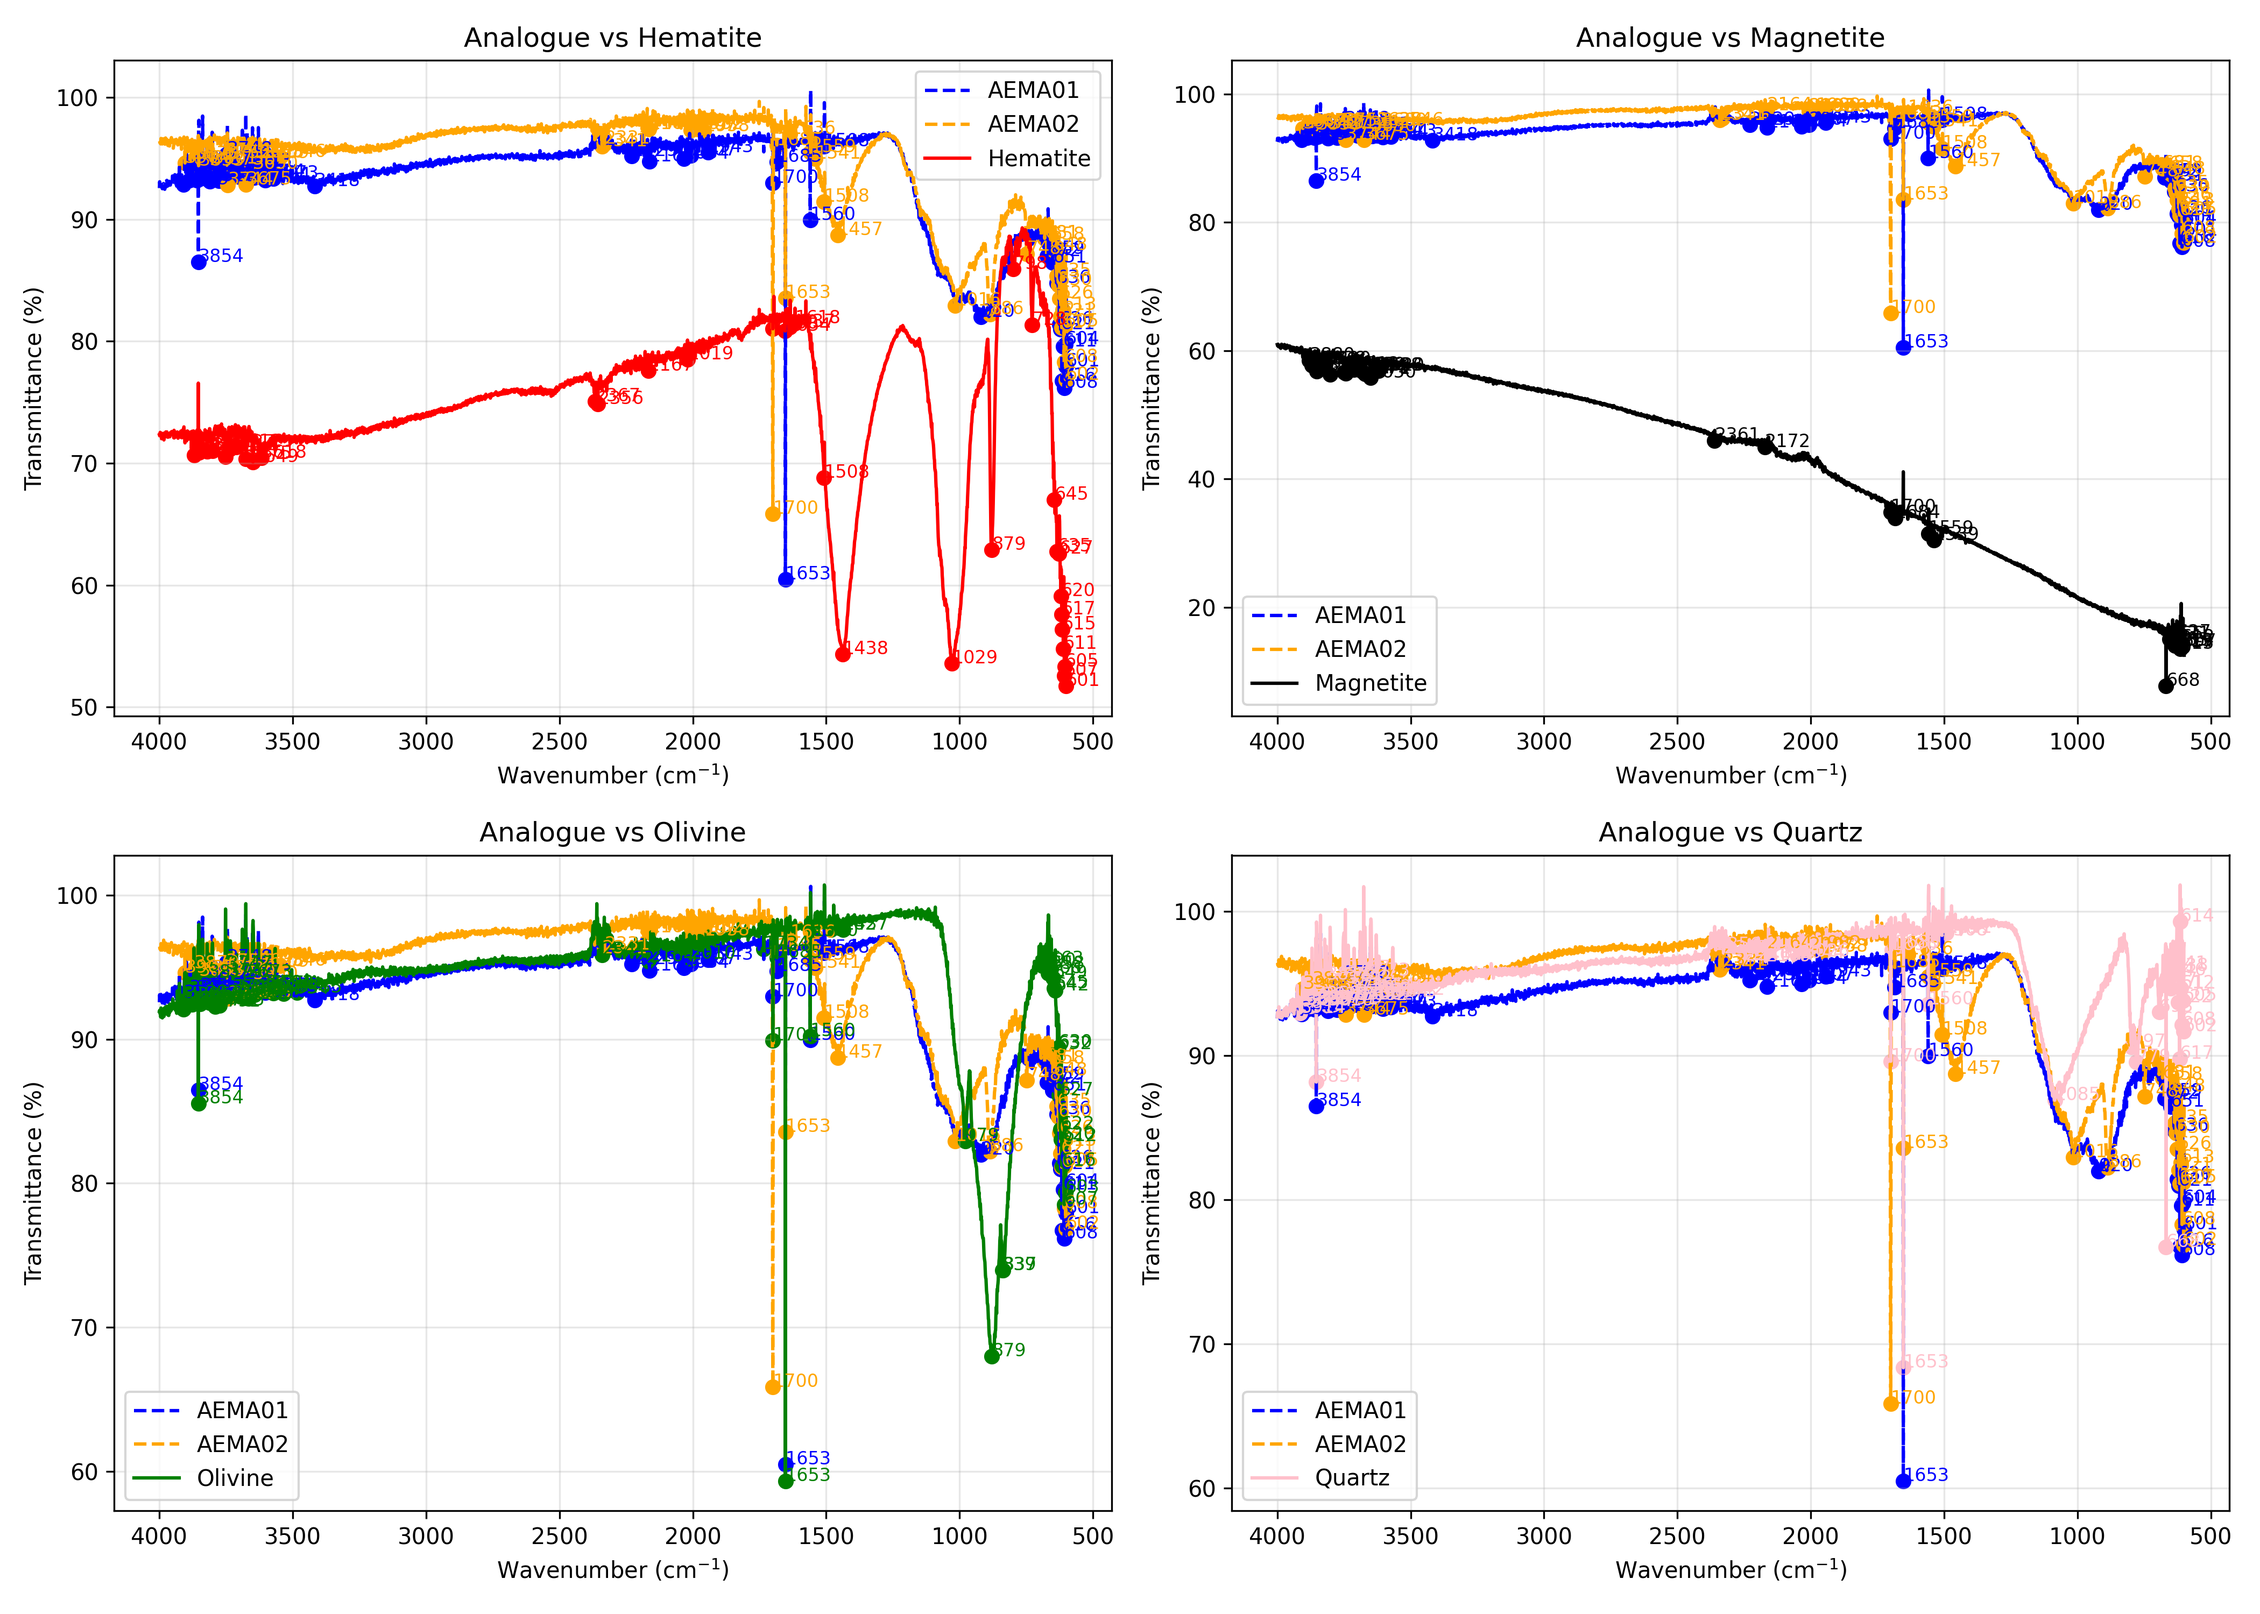
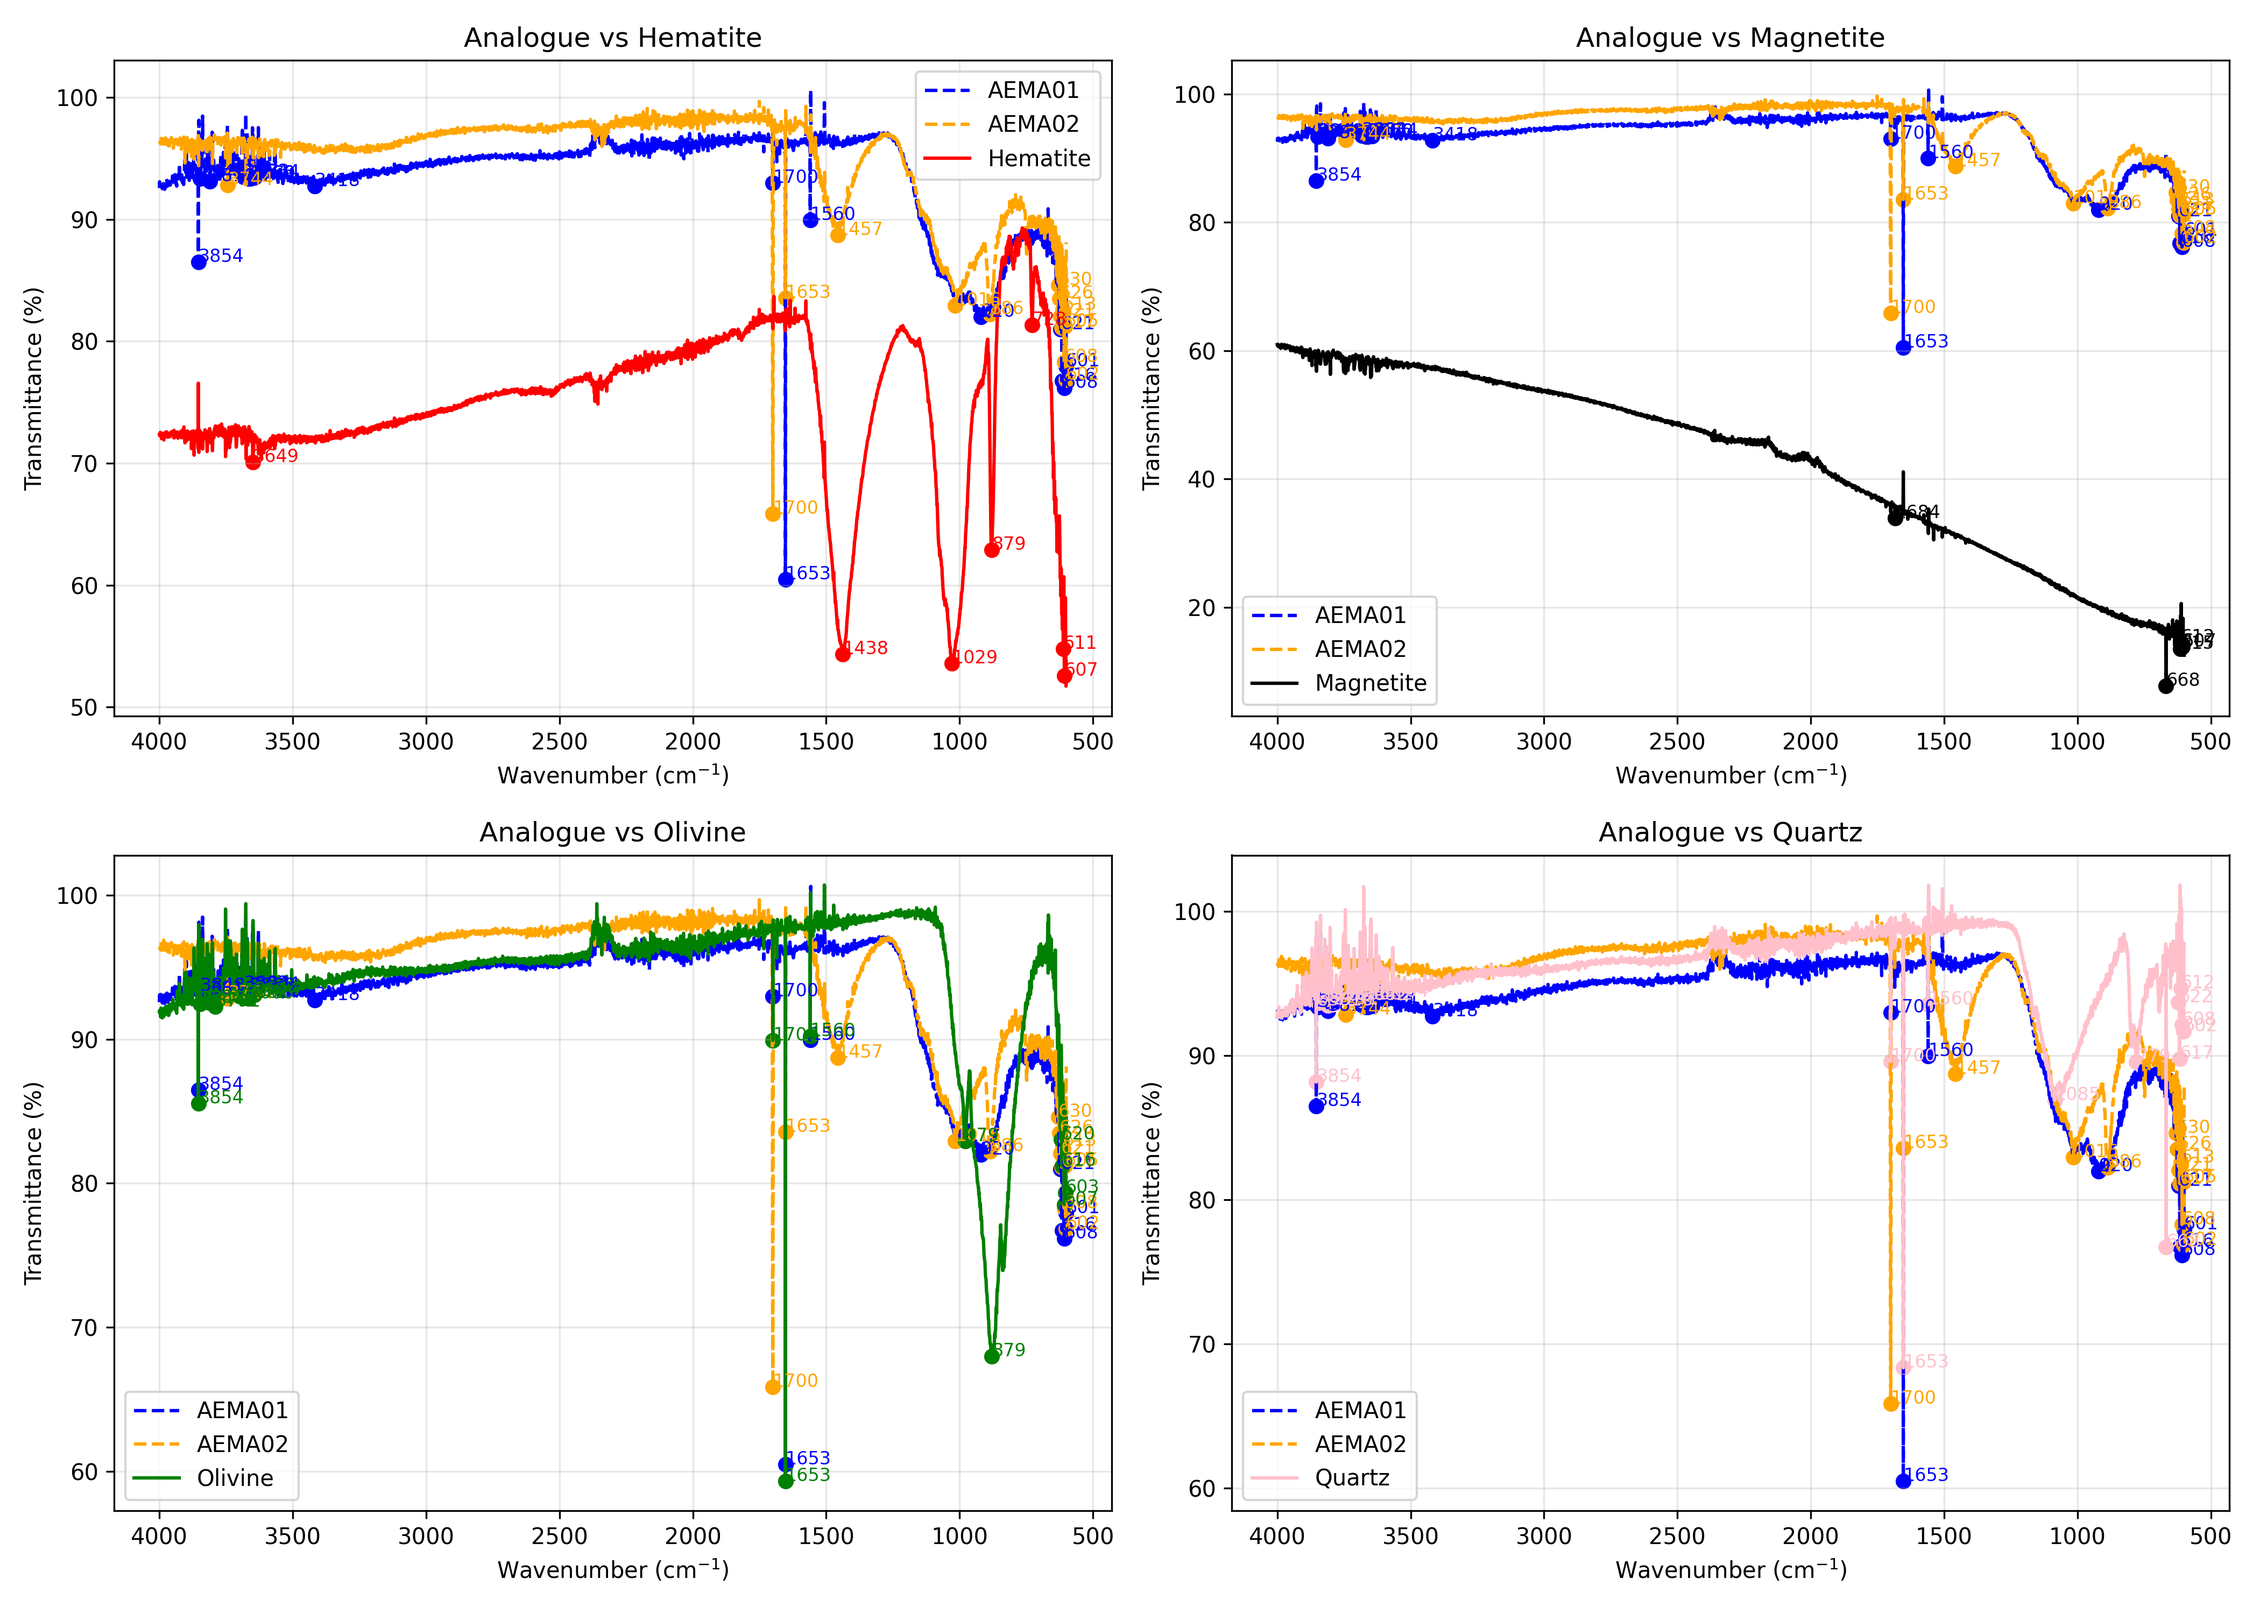
New plots for FTIR

diff --git a/IFTR_Interpreter.py b/IFTR_Interpreter.py
@@ -25,7 +25,7 @@ def load_spectrum(filename):
 # -----------------------------
 # Peak detection (absorption bands)
 # -----------------------------
-def detect_peaks(wavenumber, transmittance, prominence=1.5):
+def detect_peaks(wavenumber, transmittance, prominence=4):
     inverted = -transmittance
     peaks, properties = find_peaks(inverted, prominence=prominence)
     return wavenumber[peaks], transmittance[peaks]
@@ -65,7 +65,7 @@ analogue_peaks_2 = detect_peaks(*AEMA02)
 
 
 # =============================
-# SUBPLOTS WITH PEAK LABELS
+# SUBPLOTS WITH PEAK LABELS FOR ONLY ANALOGUE 1
 # =============================
 fig, axes = plt.subplots(2, 2, figsize=(14, 10))
 axes = axes.flatten()
@@ -77,16 +77,14 @@ for ax, (ref_name, ref_info) in zip(axes, references.items()):
 
     ref_peaks = detect_peaks(wn_ref, tr_ref)
 
-    # Plot analogue samples
-    ax.plot(*AEMA01, linestyle="--", color="blue", label="AEMA01")
-    ax.plot(*AEMA02, linestyle="--", color="orange", label="AEMA02")
+    # Plot analogue sample
+    ax.plot(*AEMA01, linestyle="--", color="blue", label="Mars Global Analogue")
 
     # Plot reference sample
     ax.plot(wn_ref, tr_ref, linestyle="-", color=ref_color, label=ref_name)
 
     # Mark analogue peaks
     ax.scatter(*analogue_peaks_1, color="blue")
-    ax.scatter(*analogue_peaks_2, color="orange")
 
     # Mark reference peaks
     ax.scatter(*ref_peaks, color=ref_color)
@@ -95,14 +93,11 @@ for ax, (ref_name, ref_info) in zip(axes, references.items()):
     for wn, tr in zip(*analogue_peaks_1):
         ax.text(wn, tr, f"{wn:.0f}", fontsize=8, color="blue")
 
-    for wn, tr in zip(*analogue_peaks_2):
-        ax.text(wn, tr, f"{wn:.0f}", fontsize=8, color="orange")
-
     for wn, tr in zip(*ref_peaks):
         ax.text(wn, tr, f"{wn:.0f}", fontsize=8, color=ref_color)
 
     # Formatting
-    ax.set_title(f"Analogue vs {ref_name}")
+    ax.set_title(f"Mars Analogue vs {ref_name}")
     ax.set_xlabel("Wavenumber (cm$^{-1}$)")
     ax.set_ylabel("Transmittance (%)")
     ax.invert_xaxis()
@@ -110,7 +105,52 @@ for ax, (ref_name, ref_info) in zip(axes, references.items()):
     ax.grid(alpha=0.3)
 
 plt.tight_layout()
-plt.savefig("FTIRPlots/FTIR_per_sample_peaks_comparison.png", dpi=300)
+plt.savefig("FTIRPlots/FTIR_MARS_per_sample_peaks_comparison.png", dpi=300)
+plt.show()
+plt.close()
+
+# =============================
+# SUBPLOTS WITH PEAK LABELS FOR ONLY ANALOGUE 1
+# =============================
+fig, axes = plt.subplots(2, 2, figsize=(14, 10))
+axes = axes.flatten()
+
+for ax, (ref_name, ref_info) in zip(axes, references.items()):
+
+    wn_ref, tr_ref = ref_info["data"]
+    ref_color = ref_info["color"]
+
+    ref_peaks = detect_peaks(wn_ref, tr_ref)
+
+    # Plot analogue sample
+    ax.plot(*AEMA02, linestyle="--", color="orange", label="JEZERO Dust Analogue")
+
+    # Plot reference sample
+    ax.plot(wn_ref, tr_ref, linestyle="-", color=ref_color, label=ref_name)
+
+    # Mark analogue peaks
+    ax.scatter(*analogue_peaks_2, color="orange")
+
+    # Mark reference peaks
+    ax.scatter(*ref_peaks, color=ref_color)
+
+    # ---- Add peak labels ----
+    for wn, tr in zip(*analogue_peaks_2):
+        ax.text(wn, tr, f"{wn:.0f}", fontsize=8, color="orange")
+
+    for wn, tr in zip(*ref_peaks):
+        ax.text(wn, tr, f"{wn:.0f}", fontsize=8, color=ref_color)
+
+    # Formatting
+    ax.set_title(f"JEZERO Analogue vs {ref_name}")
+    ax.set_xlabel("Wavenumber (cm$^{-1}$)")
+    ax.set_ylabel("Transmittance (%)")
+    ax.invert_xaxis()
+    ax.legend()
+    ax.grid(alpha=0.3)
+
+plt.tight_layout()
+plt.savefig("FTIRPlots/FTIR_JEZERO_per_sample_peaks_comparison.png", dpi=300)
 plt.show()
 plt.close()
 
@@ -138,4 +178,3 @@ plt.grid(alpha=0.3)
 
 plt.tight_layout()
 plt.savefig("FTIRPlots/FTIR_comparison.png", dpi=300)
-plt.show()
